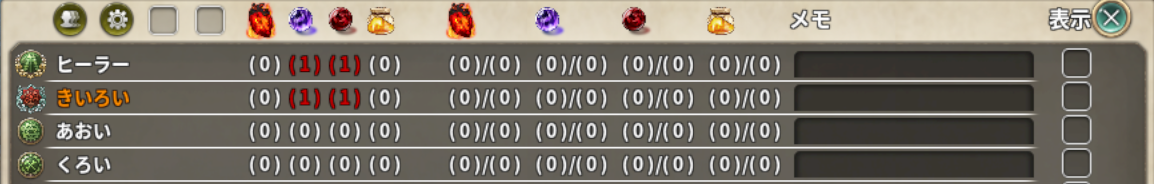
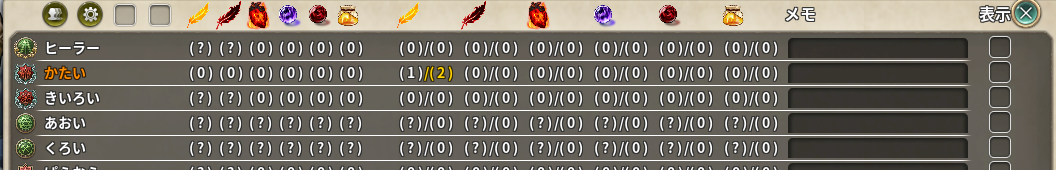
feat(indun_panel): Lv560 レイド(偽りの輝翼 / 堕落した審判の翼)のハードに対応
後から実装された Hard(Party) の indun ID 735 / 738 を、Hard の ID を持つ表 4 か所へ足した。
ID はローカルのゲーム本体の indun.ies(patch 406613)で確認済み。

* Indun Panel: h = 735 / 738 を足し、HARD ボタンと回数を出す
* Indun List Viewer: hard を足し、既存設定へ _H キーを補完するため ver を 1.4 へ
* Quickslot Operate: raid_list(Paramune)へ 735 / 738
* Mini Addons: 着け忘れお知らせの対象へ 735 / 738(漏れていたズメイ 731 も)

あわせて vlog_new_induns が印を先に立てていたため、詳細ログ OFF の間にパネルが
組み立てられると ON にしても一度も出なかったのを、g.vlog の戻り値で立てるよう修正。

diff --git a/nexus_addons_p/src/addons/indun_panel/README.md b/nexus_addons_p/src/addons/indun_panel/README.md
@@ -29,7 +29,7 @@ ON にして街に入ると `INDUNPANEL` ボタンが出ます。
 各行にはアイコン・名前・入場回数・**入場券の所持数**が出て、
 クリックでそのコンテンツへ入場できます。
 
-![展開した Indun Panel。上段は左から INDUNPANEL ボタン・共通ボタン・ショートカット・SET A / SET B / SET C の切り替え・常時展開のチェック・設定の歯車の順に並び、その下にコンテンツごとの行が SOLO・AUTO・HARD・ACLEAR・USE のボタンと回数付きで並ぶ。チャレンジと分裂特異点の行は段(この画面ではチャレンジが 520 / 540、分裂特異点が 520 / 540 / 560)が横に並び、520 の段は USE、540 / 560 の段は USEor とショップの購入枠の数が出る。焔の記憶の行は SOLO・NORMAL・HARD、嘆きの墓地と共鳴の聖所の行は入場ボタンと USE](images/01-panel.png)
+![展開した Indun Panel。上段は左から INDUNPANEL ボタン・共通ボタン・ショートカット・SET A / SET B / SET C の切り替え(選択中の SET B だけ赤い)・常時展開のチェック・設定の歯車の順に並ぶ。その下にコンテンツごとの行が並び、分裂特異点の行は 560 の段だけで USEor とショップの購入枠の数が出る。偽りの輝翼・堕落した審判の翼・ズメイ・ベリオラ・ライマラのレイドの行は SOLO・AUTO・HARD・ACLEAR・USE のボタンが回数付きで並ぶ。テルハルシャとヴェルニケの行は IN と BUYUSE、嘆きの墓地と共鳴の聖所の行は Lv の入場ボタンと USE](images/01-panel.png)
 
 ### 共通ボタン
 
@@ -77,8 +77,8 @@ ON にして街に入ると `INDUNPANEL` ボタンが出ます。
 | --- | --- |
 | `challenge` | チャレンジ（ソロ 520 / ソロ 540 / ソロ 560 + PT 560） |
 | `singularity` | 分裂特異点（520 / 540 / 560） |
-| `light_uriel` | 偽りの輝翼（ハードは未実装） |
-| `dark_uriel` | 堕落した審判の翼（ハードは未実装） |
+| `light_uriel` | 偽りの輝翼 |
+| `dark_uriel` | 堕落した審判の翼 |
 | `zmei` | ズメイ |
 | `belliora` | ベリオラ |
 | `laimara` | ライマラ |
@@ -103,8 +103,8 @@ ON にして街に入ると `INDUNPANEL` ボタンが出ます。
 
 レイドは **ハード / ソロ / 自動** の 3 通りの入場に対応し、
 掃討バフを持っている場合はその回数も表示します。
-**ハードがまだ実装されていないレイド**（偽りの輝翼 / 堕落した審判の翼）では
-HARD ボタンを出しません。実装されたら出るようにしてあります。
+**ハードがまだ実装されていないレイド**では HARD ボタンを出しません
+（偽りの輝翼 / 堕落した審判の翼は当初そうでしたが、ハードの実装に合わせて HARD ボタンを出すようにしました）。
 
 チャレンジと分裂特異点は **Lv 帯（段）ごとに横並び**です。Lv 上限が上がって段が増えると
 そのぶんパネルが横に広がるので、**設定画面の「表示する段(Lv)」で使わない段だけを外せます**

diff --git a/nexus_addons_p/src/addons/indun_list_viewer/README.md b/nexus_addons_p/src/addons/indun_list_viewer/README.md
@@ -25,7 +25,7 @@
 1 行 1 キャラで、左から職業アイコン・キャラ名・ハード回数・ソロ/自動回数・メモ・表示チェックです。
 **ログイン中のキャラは名前がオレンジ**になります。
 
-![Indun List Viewer の表。上部にレイドのアイコンが並び、その下に 1 行 1 キャラで入場回数が並ぶ。Hard のあるレイドだけが左の Hard 列に出る。ログイン中のキャラだけ名前がオレンジになっている](images/01-list.png)
+![Indun List Viewer の表。上部にレイドのアイコンが並び、その下に 1 行 1 キャラで入場回数が並ぶ。左の Hard 列と右のソロ/自動列にそれぞれ同じレイドのアイコンが並び、左端は偽りの輝翼・堕落した審判の翼。Hard のあるレイドだけが Hard 列に出る。ログイン中のキャラだけ名前がオレンジになっている](images/01-list.png)
 
 | 列 | 内容 |
 | --- | --- |
@@ -54,8 +54,8 @@
 
 | キー | レイド | 掃討バフ ID |
 | --- | --- | --- |
-| LU | LightUriel（偽りの輝翼） | 80049（ハードなし） |
-| DU | DarkUriel（堕落した審判の翼） | 80051（ハードなし） |
+| LU | LightUriel（偽りの輝翼） | 80049 |
+| DU | DarkUriel（堕落した審判の翼） | 80051 |
 | Z | Zmei | 80047 |
 | V | Veliora | 80045 |
 | L | Limara | 80043 |
@@ -100,7 +100,7 @@ Instant CC のキャラチェンジもこれを通ります。
 
 ```lua
 return {
-  ver = 1.3,
+  ver = 1.4,
   options = { reset_time = 0, display_mode = "full", hidden = 0 },
   display = { Memo = 1, Zmei_H = 1, Zmei_S = 1, ... },
   chars = { ["<キャラ名>"] = { layer = 1, order = 0, hide = false, memo = "",
@@ -123,5 +123,5 @@ return {
   アドオンが読み込まれている場合は、競合を避けるため初期化をスキップします。
 * 派生版では、新レイド「ズメイ」対応、ハードモードを持たないレイドの nil ガード、
   「Hard」ラベルの位置ずれを修正済みです（v1.0.0）。
-* Lv560 の「偽りの輝翼」「堕落した審判の翼」は**ハードモードがまだ実装されていない**ため、
-  ハード列には出ません。実装されたら `hard` を足すだけで出るようにしてあります。
+* Lv560 の「偽りの輝翼」「堕落した審判の翼」は当初ハードモードが無く、ハード列に出していませんでした。
+  ハードの実装に合わせてハード列にも出します（既存の設定には表示 ON で補完されます）。

diff --git a/nexus_addons_p/README.md b/nexus_addons_p/README.md
@@ -281,6 +281,14 @@ Nexus Addons P は本家をリネームした派生版のため、**両方を同
 <details>
 <summary>更新履歴 (Nexus Addons P)</summary>
 
+* **（次回リリース）**
+  * **Lv560 のレイド「偽りの輝翼」「堕落した審判の翼」のハードに対応**しました。
+    * Indun Panel: 2 つのレイドの行に **HARD ボタンとハードの入場回数**を出します。
+    * Indun List Viewer: 2 つのレイドを**ハード列にも出します**（既存の設定では表示 ON で追加されます）。
+    * Quickslot Operate: ハードでも属性に合わせたポーションへ差し替えます。
+    * Mini Addons: エンブレム・アークの着け忘れお知らせが、この 2 つのハードでも出るようにしました。
+      あわせて、**ズメイのハードでお知らせが出ていなかった**のも直しました。
+
 * **v2.8.1**
   * Indun Panel: **分裂特異点 520 の `USEor` ボタンを押すと、分裂特異点の券ではなく
     ライマラの入場券を買って使ってしまう**のを修正しました。ショップの品目が差し替わり、

diff --git a/docs/LEVEL_CAP_UPDATE.md b/docs/LEVEL_CAP_UPDATE.md
@@ -113,6 +113,9 @@ PY="C:/Users/pinnk/AppData/Local/Programs/Python/Python312/python.exe"
 * **Hard が後から来ることがある。** 偽りの輝翼 / 堕落した審判の翼は Solo と Auto だけで実装され、
   Party の ID（735 / 738）が欠番だった。`Indun_panel_create_frame_onsweep` は **`h` があるときだけ**
   HARD ボタンを作る。後から `h = 735` を足すだけで出る。
+  実際に後から実装されたときは、`indun_list_viewer` の `hard` と `ver` 繰り上げ、
+  `quickslot_operate_raid_list`、Mini Addons の着け忘れお知らせ（`indun_dialog.lua` の
+  `target_indun_list`）にも Hard の ID を足した。**Hard の ID を持つ表はこの 4 か所**。
 * **ボスのアイコンが使い回されることがある。** Uriel 系はモンスター 9 体すべて `Icon = "boss_uriel"` で、
   ボス画像にすると 2 行が同じ絵になる。**見分けが付かないときは入場券のアイコンを使う。**
 * **新しい女神のショップボタン画像は無いことがある。** `baseskinset` の `goddess*_shop_btn` は 5 枚で、
